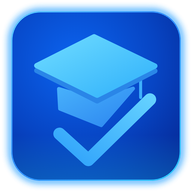
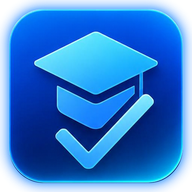
yangilanish

diff --git a/HANDOFF.md b/HANDOFF.md
@@ -24,7 +24,7 @@ Rollar: `user_metadata.role` = teacher | student; `middleware.ts` yo'naltiradi.
 - O'quvchilar:  `Ism-9.26` (ism = to'liq ismning 2-so'zi; bir xil ism bo'lsa familiya bosh harfi: `CharosB-9.26`, `CharosU-9.26`).
 - Kirish: RPC `email_for_username` (normallashtirilgan) -> `signInWithPassword`. Auth emaillari eski (`student_xxx@smartattend.local`, `teacher_demo@smartattend.local`), faqat `students.username`/`teachers.username` o'zgargan.
 - Kirish sahifasida login misoli va format maslahati YO'Q; login maydonida neytral "Loginingizni kiriting". Pastda "Yordam kerak bo'lsa, o'qituvchingizga murojaat qiling:" + havola "Yordam so'rash" (Telegram belgisi bilan) -> https://t.me/Isakovshaxzodbek (z yoki s bilan yozilishi foydalanuvchidan hali tasdiqlanmagan).
-- Logotip (20-oktabr, YANGI): foydalanuvchining Canva dizayni — yorqin ko'k yumaloq kvadrat, ichida kollej shlyapasi (mortarboard) + katta galochka; ostida "SmartAttend" (Smart oq, Attend ko'k) va "Davomat — oson va aniq". Asl fayl repoda YO'Q: skrinshotdan SVG qilib qayta chizilgan va PNG'ga aylantirilgan (juda yaqin, lekin piksel-piksel bir xil emas; foydalanuvchi asl PNG'ni yuborsa `public/` dagi 3 faylni almashtirish kifoya). Fayllar: `public/logo-full.png` (520x570, kirish sahifasida, `<Logo full size={224}/>`), `public/icon-192.png`, `public/icon-512.png` (faqat belgi: sarlavha, favicon, manifest, apple icon). `components/Logo.tsx`: `<Logo size={32}/>` = belgi. Sarlavhada "Smart"+"Attend"(ko'k) yozuvi (`AppShell.tsx`). Eski "S" lentali logotip almashtirilgan. Yordam havolasi: "Yordam so'rang" + Telegram belgisi, yordam gapining tagida.
+- Logotip (20-oktabr, YANGI): foydalanuvchining Canva dizayni — yorqin ko'k yumaloq kvadrat, ichida kollej shlyapasi (mortarboard) + katta galochka; ostida "SmartAttend" (Smart oq, Attend ko'k) va "Davomat — oson va aniq". Belgi foydalanuvchining yuqori sifatli rasmidan (1264x1264, "shaffof/shisha" effektli) kesib olingan: yumaloq niqob + tashqi ko'k nur (glow) qo'shilgan, shuning uchun asl dizaynga piksel-piksel mos. Asl rasm repoda yo'q; almashtirish kerak bo'lsa `public/icon-192.png`, `icon-512.png`, `logo-full.png` fayllarini yangilang. Fayllar: `public/logo-full.png` (520x570, kirish sahifasida, `<Logo full size={224}/>`), `public/icon-192.png`, `public/icon-512.png` (faqat belgi: sarlavha, favicon, manifest, apple icon). `components/Logo.tsx`: `<Logo size={32}/>` = belgi. Sarlavhada "Smart"+"Attend"(ko'k) yozuvi (`AppShell.tsx`). Eski "S" lentali logotip almashtirilgan. Yordam havolasi: "Yordam so'rang" + Telegram belgisi, yordam gapining tagida.
 
 ### Ikkinchi guruh: 9K 7-26 (18-oktabr, `supabase/update-5.sql`)
 - Guruh kodi `7-26`, xona `1-B, №202`, yo'nalish: Chorvachilik fermasi operatori (30810706). 32 o'quvchi (qog'oz ro'yxat rasmidan; 5-raqamli Karimboyev Muxammadjon ustiga chizilgan edi, lekin foydalanuvchi QO'SHISH kerak dedi). Loginlar `Ism-7.26`; bir xil ismlar: `MuxammadjonK-7.26`, `MuxammadjonX-7.26`, `RavshanbekKa-7.26`, `RavshanbekKu-7.26`. Akkaunti YO'Q: kurator Sozlamalar -> Parollar orqali har biriga parol qo'yadi (akkaunt shu paytda yaratiladi). Emaillar `student_<familiya>_<ism>_726@smartattend.local`. Ro'yxatdagi ID raqamlari (6 xonali) bazaga yozilmagan.
